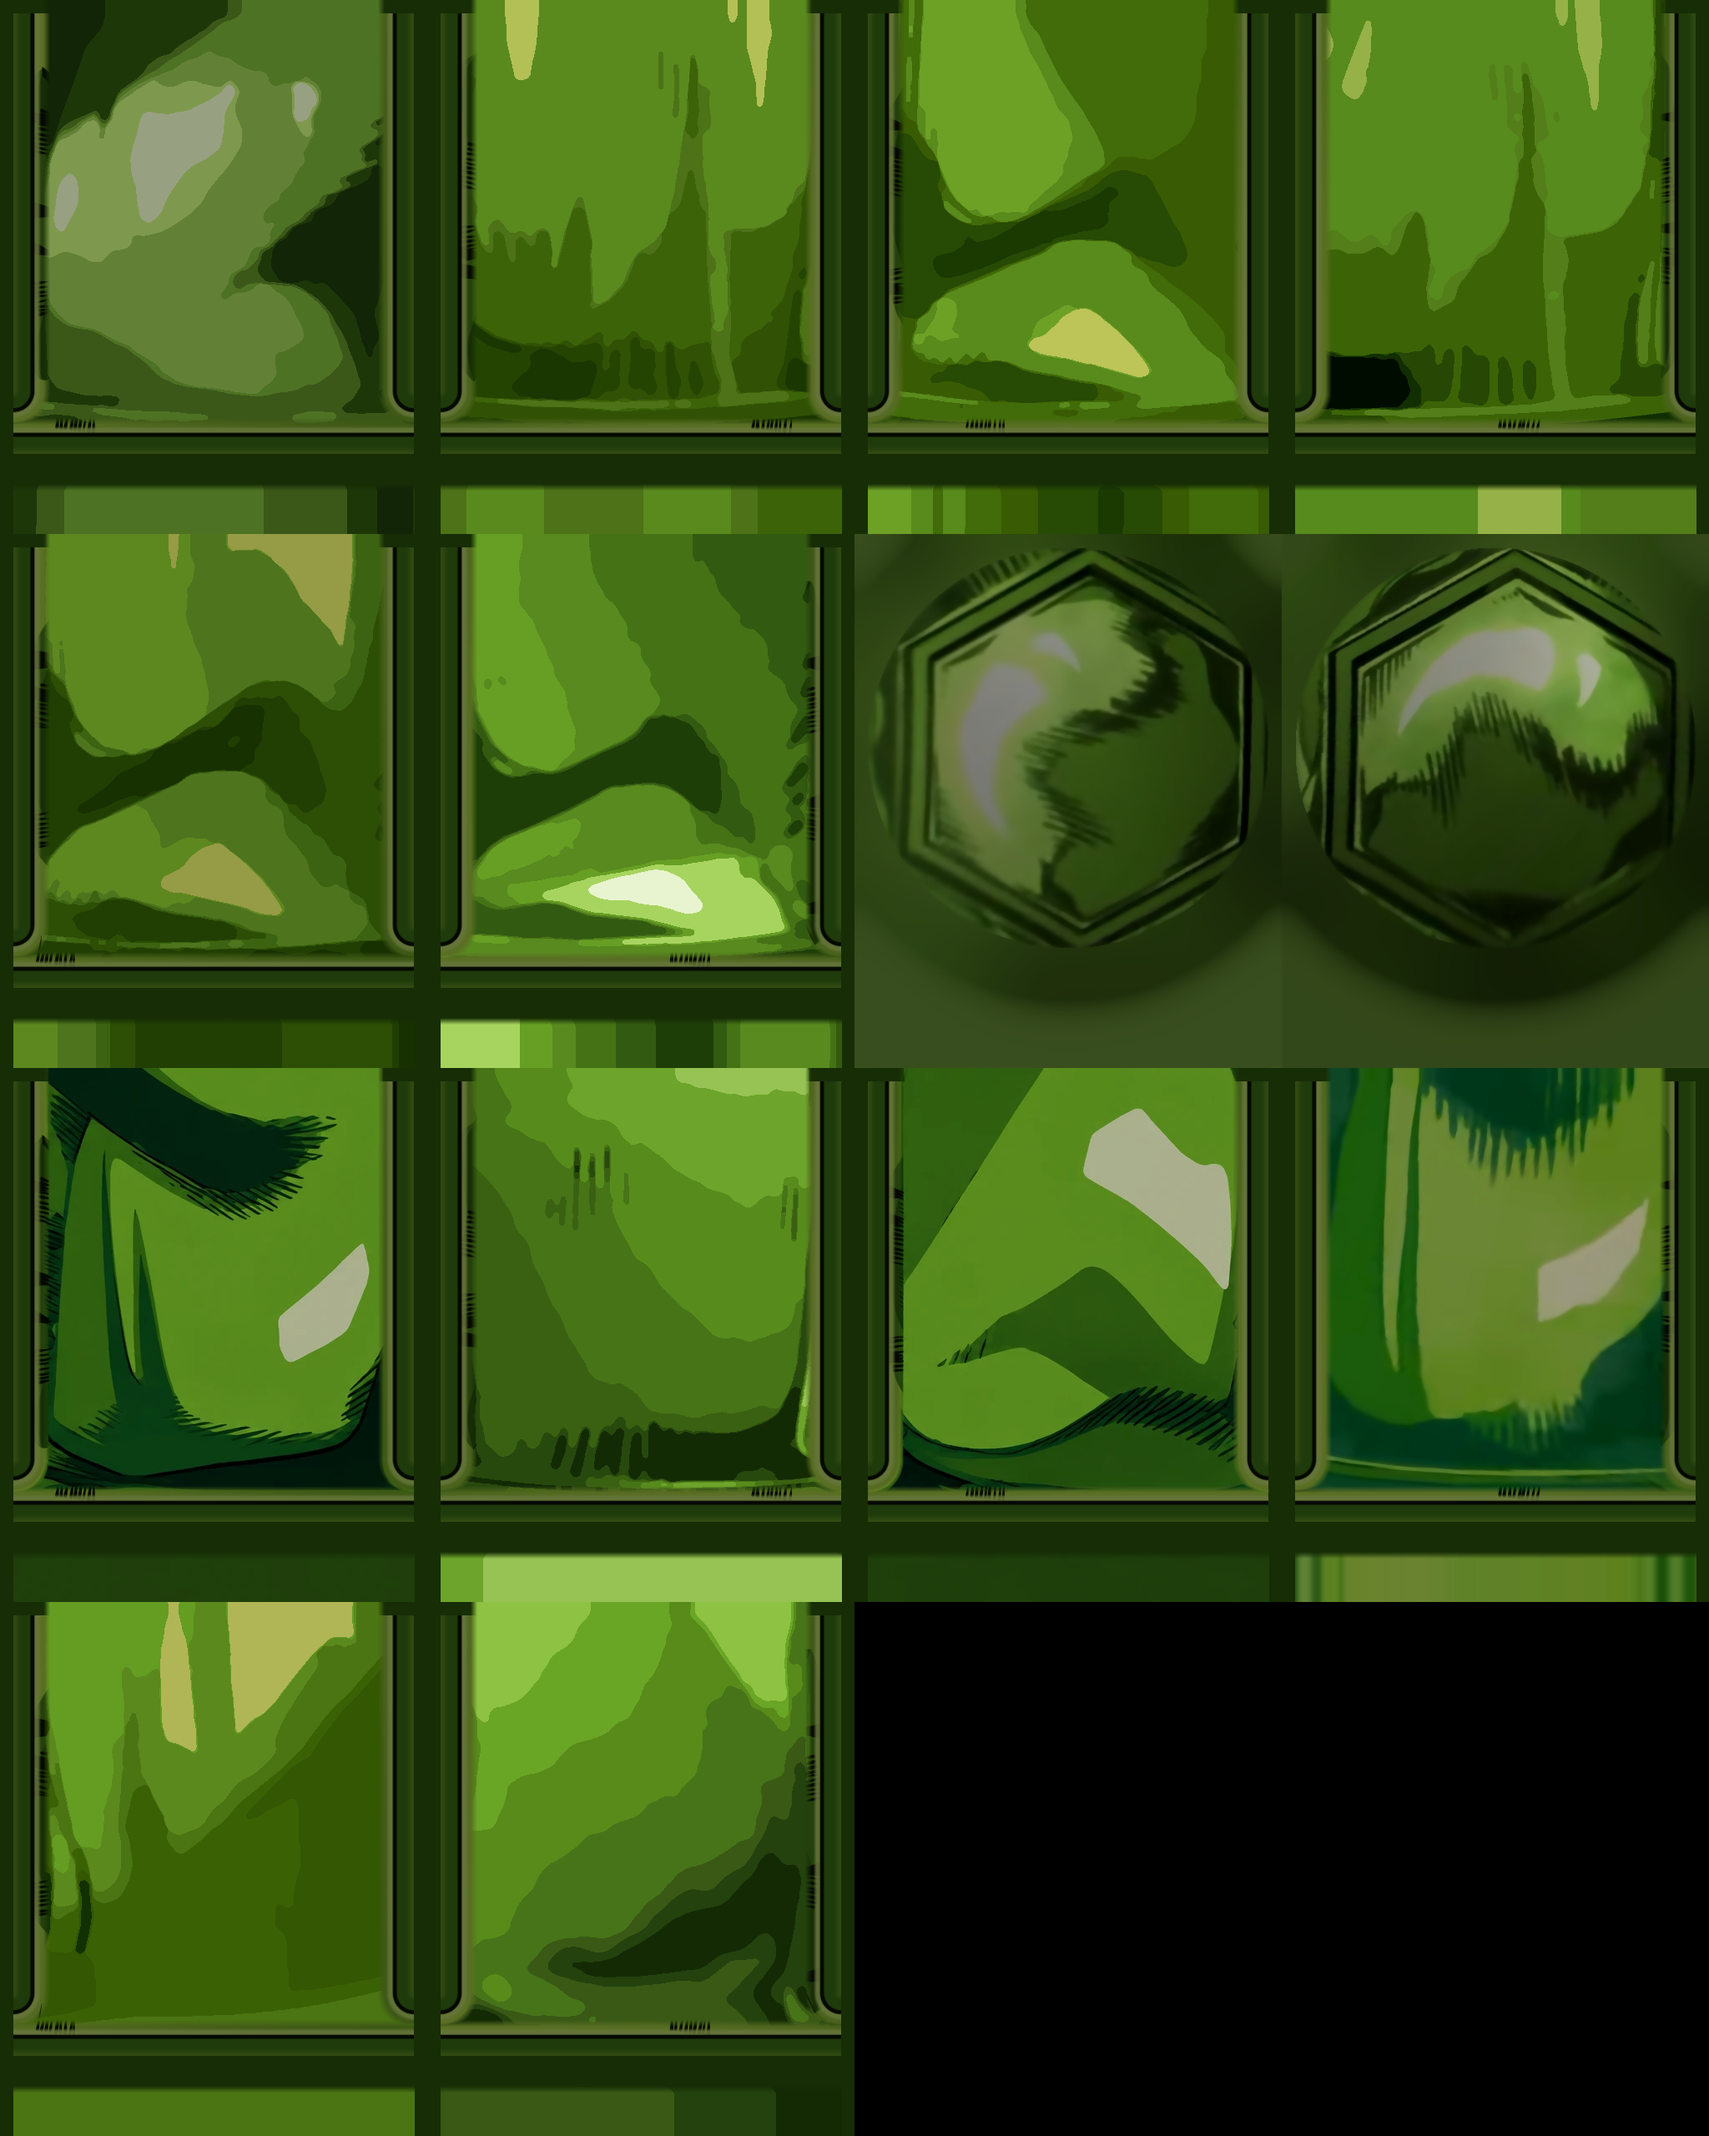
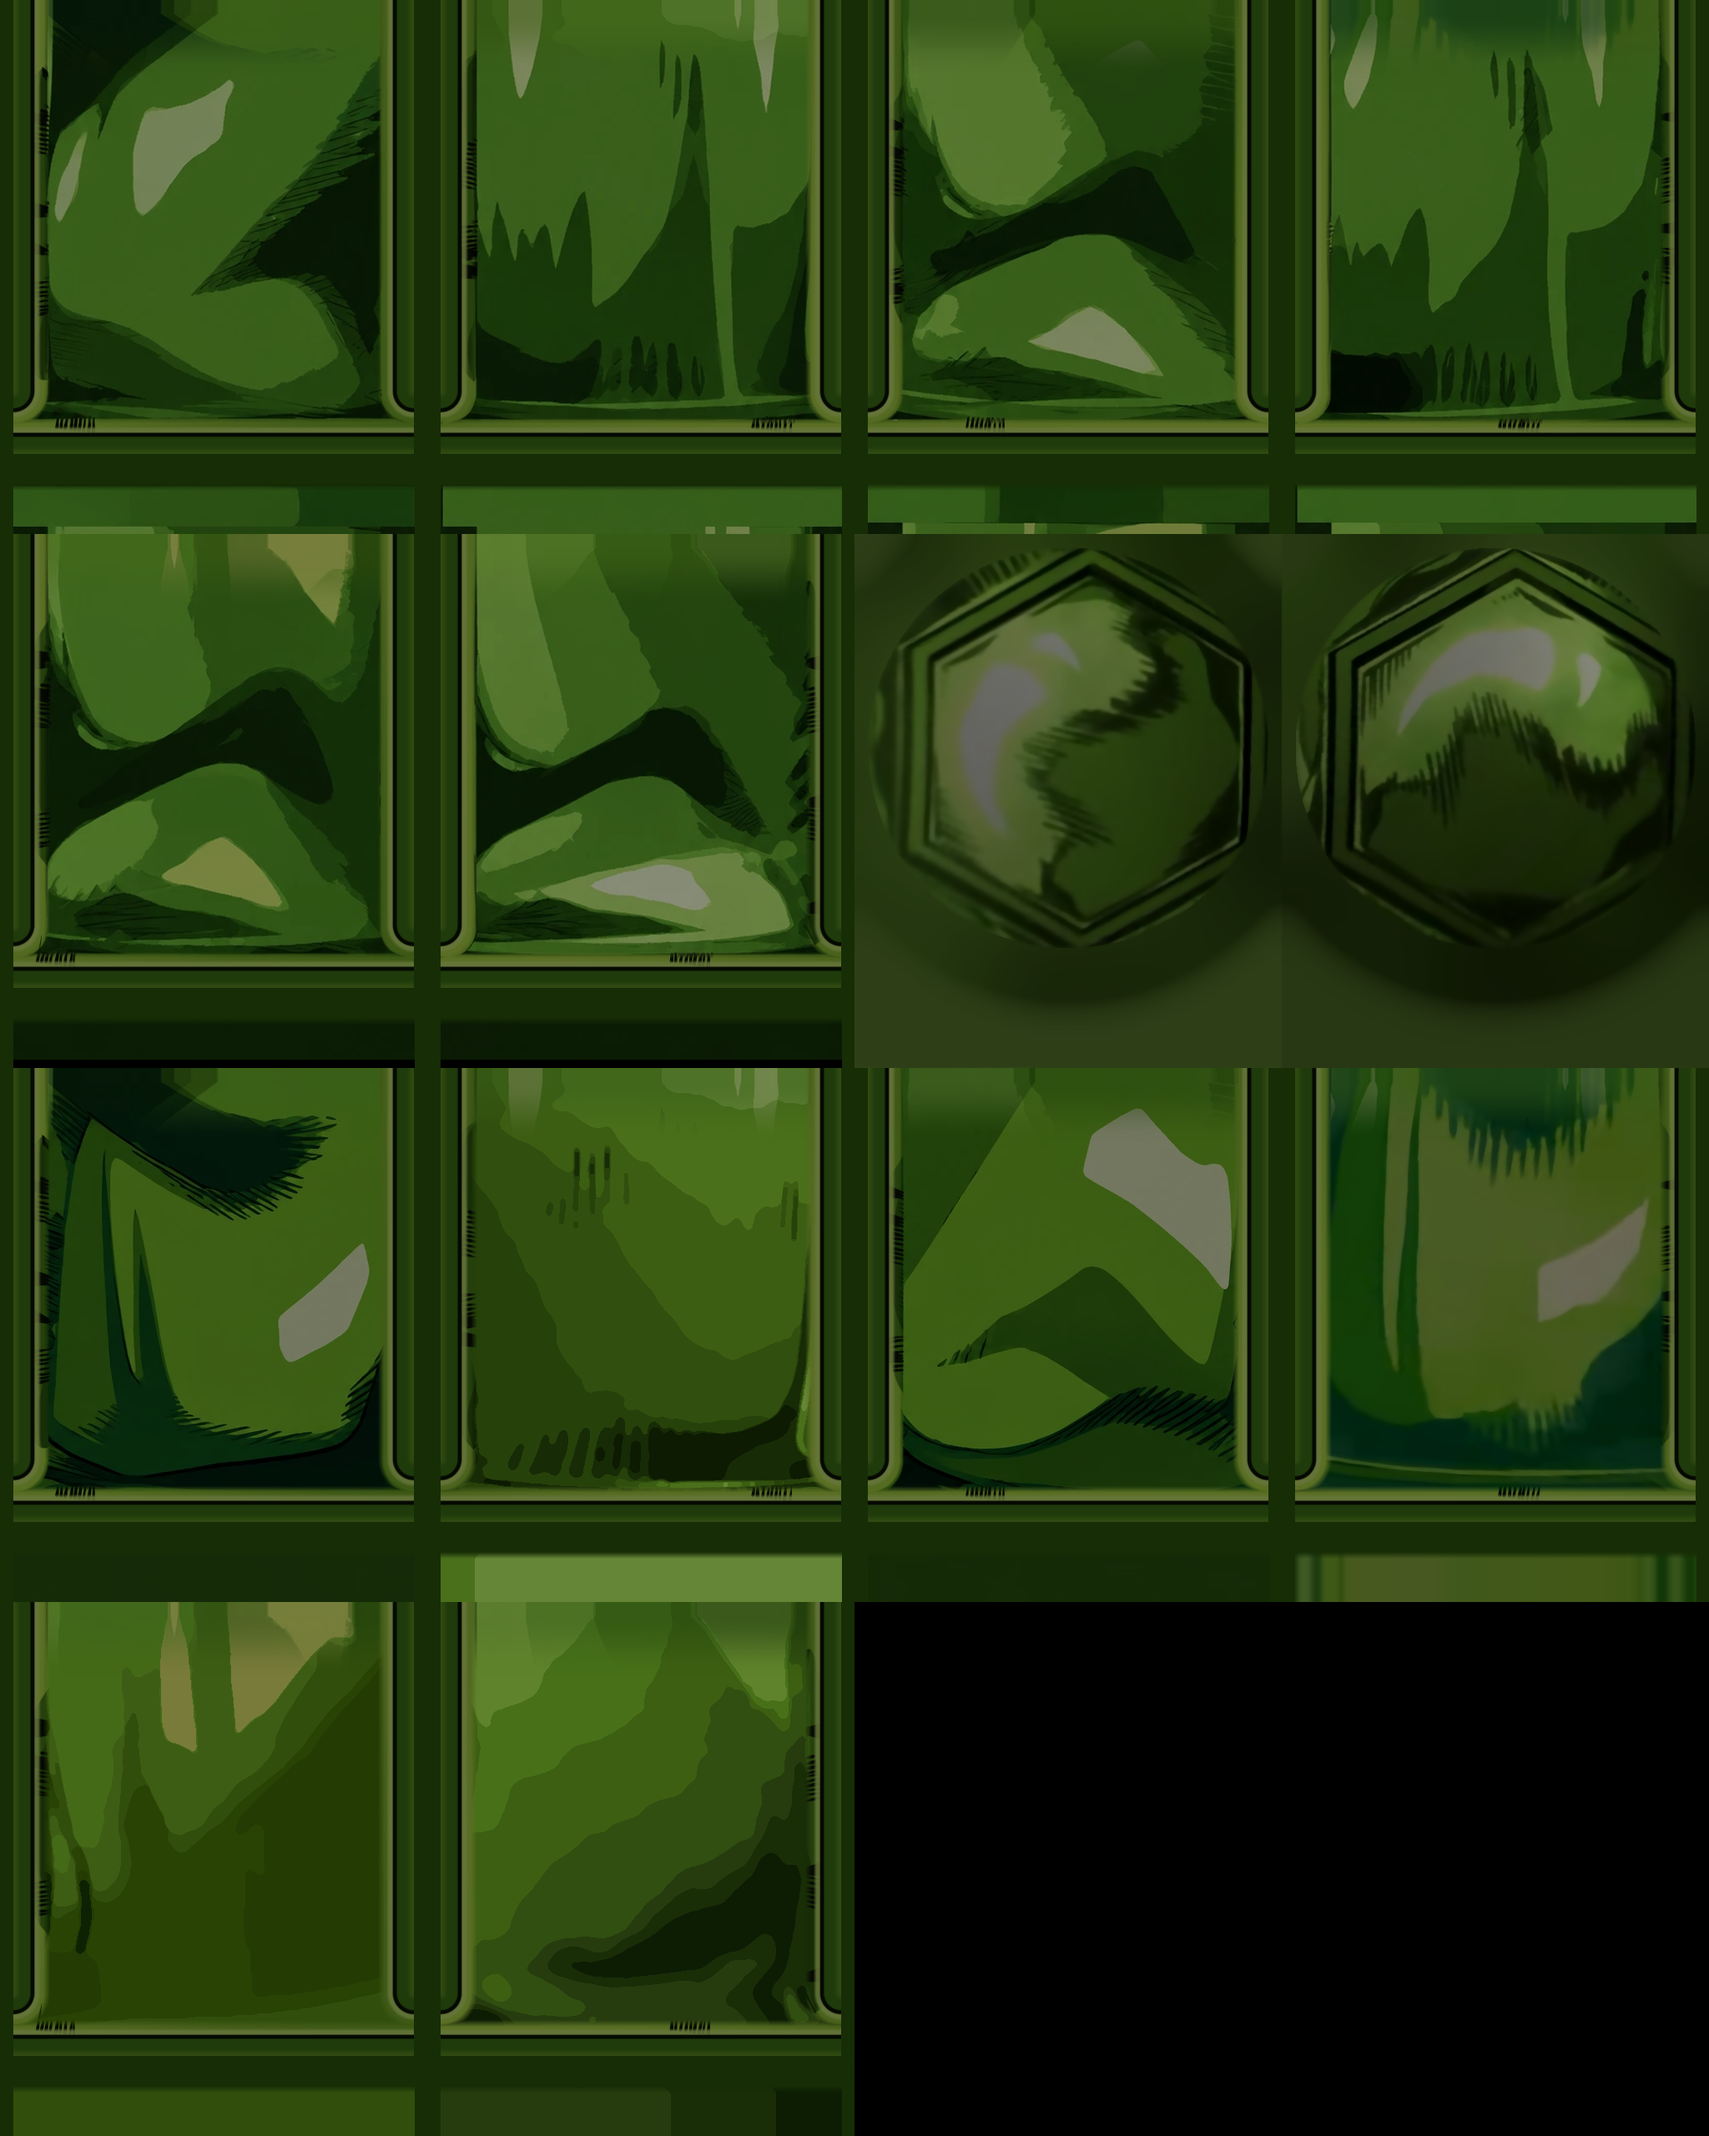
fix(paint): blend north and south paint at the equator, fix seam mip line
Add polished panels 0-5 from the first returned sheet.

diff --git a/src/ball.atlas.js b/src/ball.atlas.js
@@ -171,7 +171,12 @@ const fragmentShader = /* glsl */ `
     // the part of the ball facing away from the light goes darker, and it
     // stays put while the ball (and its paint) turns.
     vec2 px = atlasPx(p, o);
-    vec3 col = texture2D(uInk, vec2(px.x / ${ATLAS.w.toFixed(1)}, 1.0 - px.y / ${ATLAS.h.toFixed(1)})).rgb;
+    // Texture derivatives from a seam-free coordinate: the north/south cells and the hexagon/panel cells
+    // sit far apart in the atlas, so the raw jump would pick the blurriest mip level along the seams.
+    vec2 pxd = o.plate > 0.0 ? px : atlasPx(vec3(p.x, abs(p.y), p.z), o);
+    vec2 uv = vec2(px.x / ${ATLAS.w.toFixed(1)}, 1.0 - px.y / ${ATLAS.h.toFixed(1)});
+    vec2 uvd = vec2(pxd.x / ${ATLAS.w.toFixed(1)}, 1.0 - pxd.y / ${ATLAS.h.toFixed(1)});
+    vec3 col = textureGrad(uInk, uv, dFdx(uvd), dFdy(uvd)).rgb;
     col *= 2.0 * mix(1.0, shadowAt(dot(S, L)), uShadow); // paint is stored at half scale; 0 = fully lit, flat
     return col;
   }

diff --git a/scripts/paint/bake_atlas.py b/scripts/paint/bake_atlas.py
@@ -151,8 +151,17 @@ def lit_level(cell):
     return np.percentile(L[m],70)
 LV=[lit_level(c) for c in range(NC)]; TARGET=float(np.median(LV)); print('lit levels',np.round(LV,1),'target %.1f'%TARGET)
 for cell in range(NC):
-    g=np.clip(TARGET/LV[cell],0.6,1.5); x0,y0=(cell%4)*CELL[0],(cell//4)*CELL[1]
+    g=np.clip(TARGET/LV[cell],0.6,2.2); x0,y0=(cell%4)*CELL[0],(cell//4)*CELL[1]
     out[y0:y0+CELL[1],x0:x0+CELL[0]]=np.clip(out[y0:y0+CELL[1],x0:x0+CELL[0]].astype(np.float32)*g,0,255).astype(np.uint8)
+# equator seam: a panel's north cell k and south cell 8+k meet along their top edge (y=PY). They are painted
+# apart now, so blend them toward each other over SEAM px so the paint is continuous across the equator.
+SEAM=int(os.environ.get('SEAM','72'))
+w=np.clip(1-(np.arange(CELL[1])-PY)/SEAM,0,1)[:,None,None]; w=w*w*(3-2*w)*0.5   # 0.5 at the equator = the average
+for k in range(6):
+    xn,yn=(k%4)*CELL[0],(k//4)*CELL[1]; xs_,ys_=((k+8)%4)*CELL[0],((k+8)//4)*CELL[1]
+    N=out[yn:yn+CELL[1],xn:xn+CELL[0]].astype(np.float32); S=out[ys_:ys_+CELL[1],xs_:xs_+CELL[0]].astype(np.float32)
+    out[yn:yn+CELL[1],xn:xn+CELL[0]]=np.clip(N*(1-w)+S*w,0,255).astype(np.uint8)
+    out[ys_:ys_+CELL[1],xs_:xs_+CELL[0]]=np.clip(S*(1-w)+N*w,0,255).astype(np.uint8)
 # clean grooves: the frames see grooves smeared and at odd angles, so the groove channels, lips and
 # ink lines on the panels come from the procedural starter art (starter.png, = `npm run ink`), the
 # traced paint stays everywhere else. Hexagon cells keep the traced grooves.
@@ -169,6 +178,11 @@ for cell in PANEL_CELLS:
     sy0=((cell-8 if cell>=8 else cell)//4)*CELL[1]; sx0=((cell-8 if cell>=8 else cell)%4)*CELL[0]
     res[y0:y0+CELL[1],x0:x0+CELL[0]]=res[y0:y0+CELL[1],x0:x0+CELL[0]]*(1-A)+st[sy0:sy0+CELL[1],sx0:sx0+CELL[0]]*A
 out=np.clip(res,0,255).astype(np.uint8)
+# rows above the equator line (y<PY) are never sampled on purpose; copy the equator row up so texture
+# filtering at the seam only ever blends equal colours.
+for cell in PANEL_CELLS:
+    x0,y0=(cell%4)*CELL[0],(cell//4)*CELL[1]
+    out[y0:y0+PY,x0:x0+CELL[0]]=out[y0+PY:y0+PY+1,x0:x0+CELL[0]]
 Image.fromarray(out).save('../../src/assets/ink.png',optimize=True)
 json.dump(dict(L=SL.tolist(),g=SG.tolist()),open('../../src/assets/shade.json','w'))
 poses={k:[round(float(x),4) for x in Rot.from_matrix(P[k]@GS[TW[[i for i,ch in enumerate(CHAINS) if k in ch][0]]]).as_quat()] for ch in CHAINS for k in ch}
